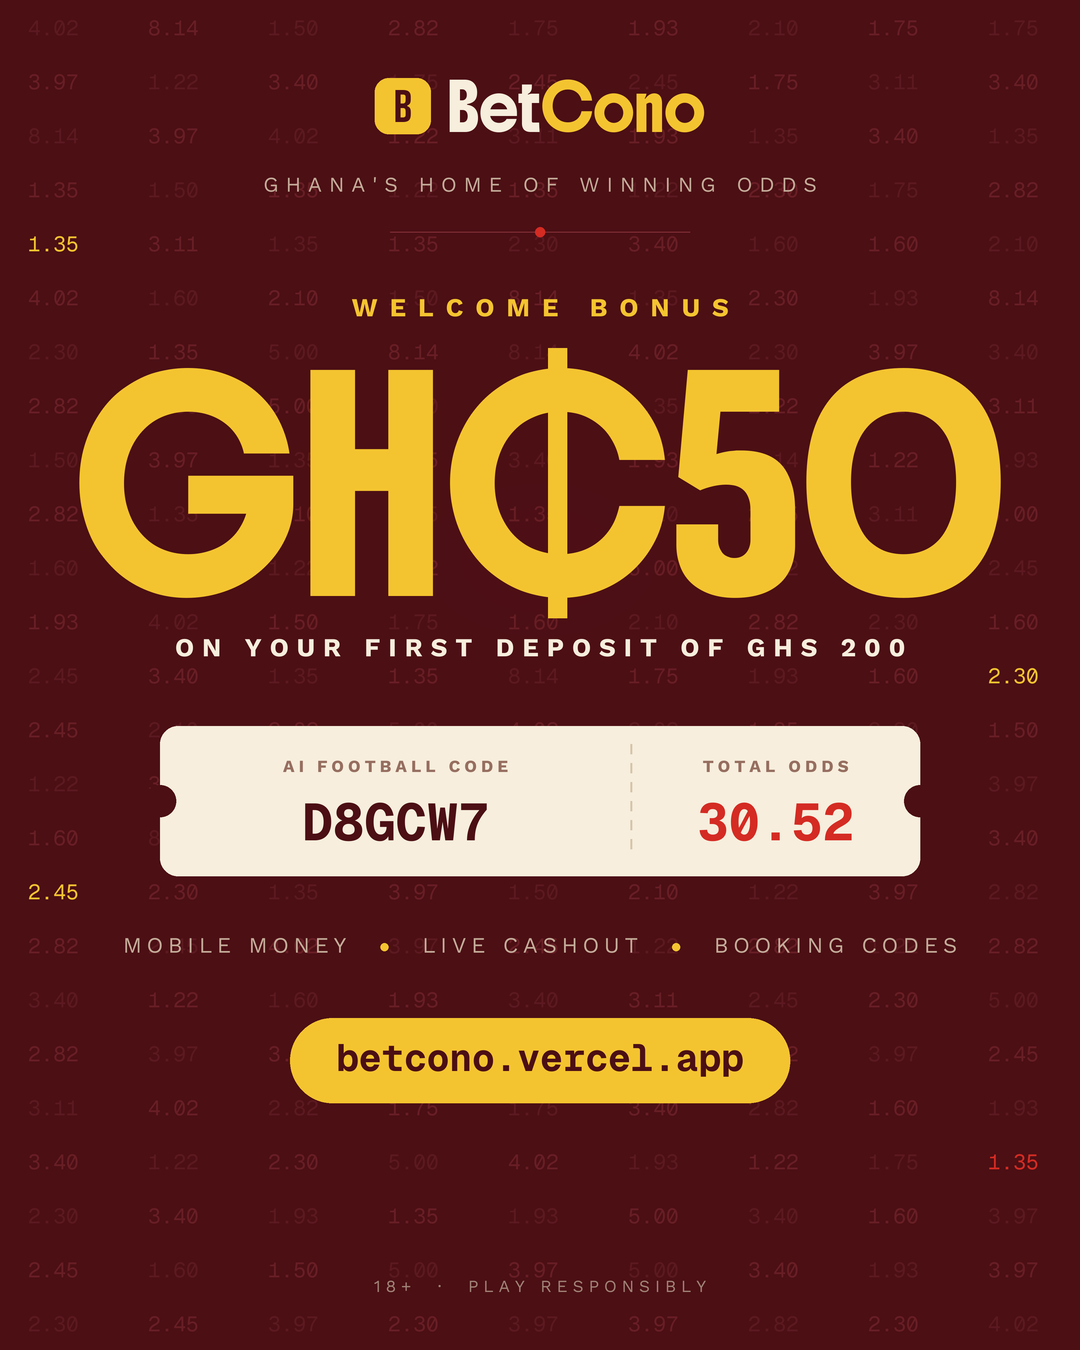
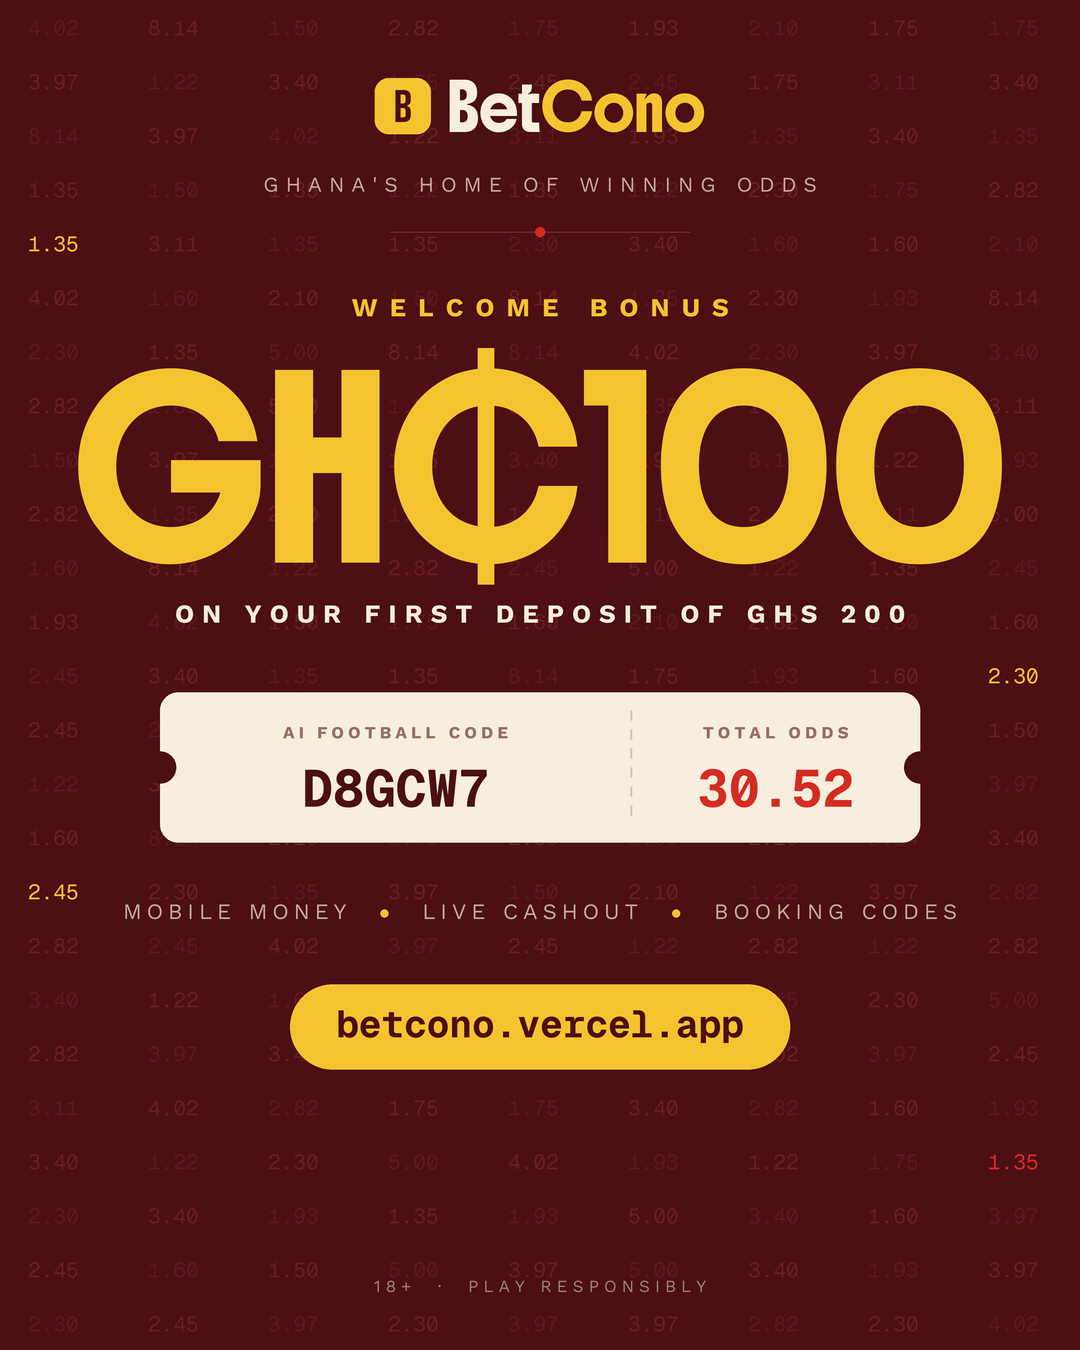
Say GH₵100 everywhere the welcome bonus is promised
FIRST_DEPOSIT_BONUS pays 100, but the home banner and the flyer said 50.
The smaller promise predates the env change; both now state what the app
actually credits.

Changed region(s): [[0.0611, 0.2489, 0.9472, 0.84], [0.6417, 0.2489, 0.6722, 0.28]]

diff --git a/components/home/Panels.tsx b/components/home/Panels.tsx
@@ -43,7 +43,7 @@ const BANNERS: Banner[] = [
   {
     art: "/promo/welcome-bonus.jpg",
     kicker: "Welcome Bonus",
-    title: "GH₵50 on your first deposit",
+    title: "GH₵100 on your first deposit",
     href: "/register",
   },
   {
